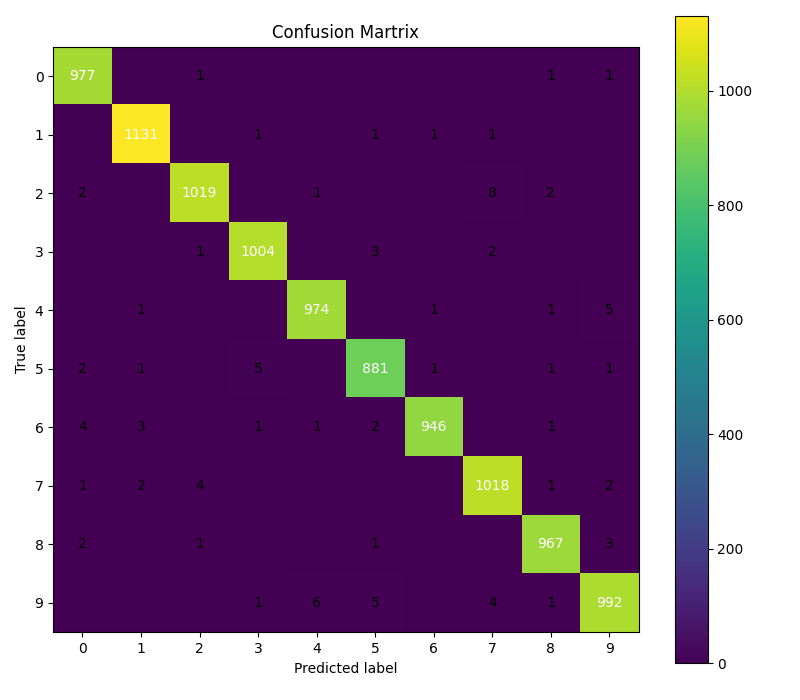
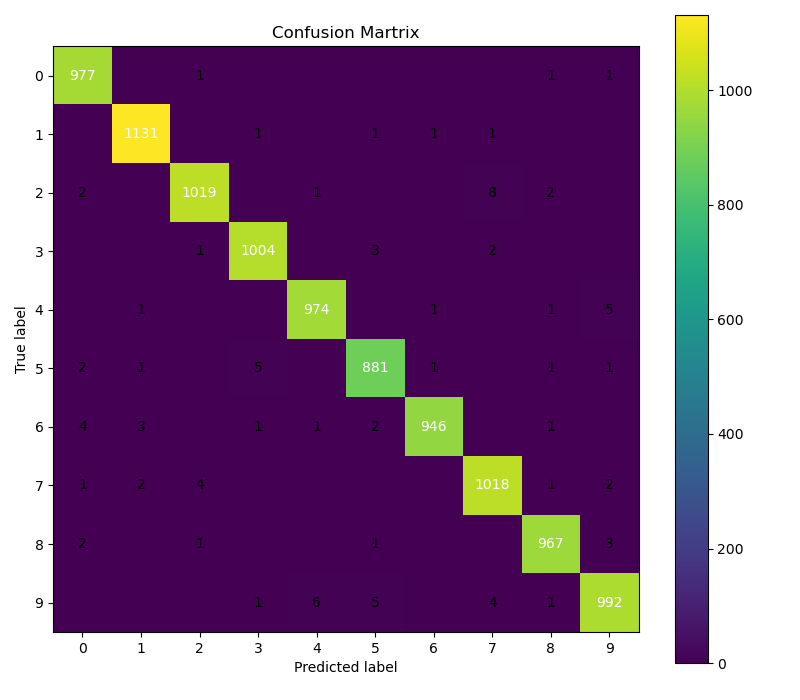
任务5 补充结果表格打印与存档；修复进阶模型验证集被数据增强的问题

diff --git a/compare.py b/compare.py
@@ -69,6 +69,24 @@ def main():
     #CNN,SGD:0.1 vs 0.001
     cnn_lr_01 = train_experiment(model_type='CNN', opt_type='SGD', lr=0.1, epochs=epochs)
     cnn_lr_001 = train_experiment(model_type='CNN', opt_type='SGD', lr=0.001, epochs=epochs)
+
+    # 结果表格
+    results = [
+        ('MLP', 'Adam', 0.001, mlp_acc),
+        ('CNN', 'Adam', 0.001, cnn_adam_acc),
+        ('CNN', 'SGD', 0.01, cnn_sgd_acc),
+        ('CNN', 'SGD', 0.1, cnn_lr_01),
+        ('CNN', 'SGD', 0.001, cnn_lr_001),
+    ]
+    table_lines = ["===== 任务5 对比实验结果 (10 Epochs, 验证集 10000 张) ====="]
+    for i, (name, opt, lr, acc) in enumerate(results, 1):
+        table_lines.append(f"组{i}: {name} + {opt}(lr={lr}) | 最终验证准确率: {acc[-1]:.2f}% | 最佳: {max(acc):.2f}%")
+    table_path = os.path.join(FIG_DIR, "task5_results_table.txt")
+    with open(table_path, "w", encoding="utf-8") as f:
+        f.write("\n".join(table_lines) + "\n")
+    print("\n".join(table_lines))
+    print(f"结果表格已保存至: {table_path}")
+
     #MLP vs CNN
     plt.figure(figsize=(12, 6))
     plt.subplot(1, 3, 1)

diff --git a/improve.py b/improve.py
@@ -2,7 +2,7 @@ import os
 import matplotlib.pyplot as plt
 import torch
 import torch.nn as nn
-from torch.utils.data import DataLoader, random_split
+from torch.utils.data import DataLoader, random_split, Subset
 import torchvision.transforms as transforms
 
 from dataset import my_dataset
@@ -55,11 +55,13 @@ def main():
         transforms.ToTensor()
     ])
 
-    full_dataset = my_dataset(split='train')
-    full_dataset.transform = train_transform
-    
+    base_dataset = my_dataset(split='train')
+    aug_dataset = my_dataset(split='train')
+    aug_dataset.transform = train_transform
+
     torch.manual_seed(42)
-    train_data, val_data = random_split(full_dataset, [50000, 10000])
+    train_data, val_data = random_split(base_dataset, [50000, 10000])
+    train_data = Subset(aug_dataset, train_data.indices)
     
     train_loader = DataLoader(train_data, batch_size=64, shuffle=True)
     val_loader = DataLoader(val_data, batch_size=64, shuffle=False)

diff --git a/README.md b/README.md
@@ -89,7 +89,7 @@ python evaluate.py
 ```bash
 python compare.py
 ```
-> 输出：运行 5 组严格控制变量实验（MLP vs CNN、Adam vs SGD、lr 0.1 vs 0.01 vs 0.001），保存 `实验图表输出/task5_comparison_charts.png`。
+> 输出：运行 5 组严格控制变量实验（MLP vs CNN、Adam vs SGD、lr 0.1 vs 0.01 vs 0.001），保存 `实验图表输出/task5_comparison_charts.png`，并打印/存档结果表格 `实验图表输出/task5_results_table.txt`。
 
 ### 5. 进阶改进版模型训练与平滑收敛 (进阶亮点)
 ```bash
@@ -108,6 +108,18 @@ python improve.py
 | **MLP 基线** | 漏斗形全连接降维 (784-128-64-10) | 109,386 | **97.35%** | 265 / 10,000 | 基准 |
 | **标准 CNN** | 卷积池化特征提取 (3×3 + 5×5) | 118,350 | **99.09%** | 91 / 10,000 | 较 MLP 下降 **65.7%** |
 | **Improved CNN** | **BN + Dropout(0.2) + 数据增强 + 余弦退火** | 118,446 | **99.38%** | **62 / 10,000** | **较标准 CNN 再降 31.9%**<br>(较 MLP 暴降 **76.6%**) |
+
+### 控制变量对比实验 (任务 5, 10 Epochs 验证集 10000 张)
+
+| 组别 | 模型 | 优化器 | 学习率 | 最终验证准确率 | 最佳验证准确率 |
+| :---: | :---: | :---: | :---: | :---: | :---: |
+| 1 | MLP | Adam | 0.001 | 97.31% | 97.31% |
+| 2 | CNN | Adam | 0.001 | 98.78% | 98.90% |
+| 3 | CNN | SGD | 0.01 | 98.71% | 98.72% |
+| 4 | CNN | SGD | 0.1 | 97.56% | 98.40% |
+| 5 | CNN | SGD | 0.001 | 97.61% | 97.61% |
+
+> 与实验结论对应：Adam 收敛快且平稳；SGD 中 0.01 表现最佳，0.1 全程震荡（最佳与最终相差 0.84 个百分点），0.001 收敛偏慢；架构维度 CNN 全面领先 MLP。逐轮曲线见 `实验图表输出/task5_comparison_charts.png`。
 
 ---
 
